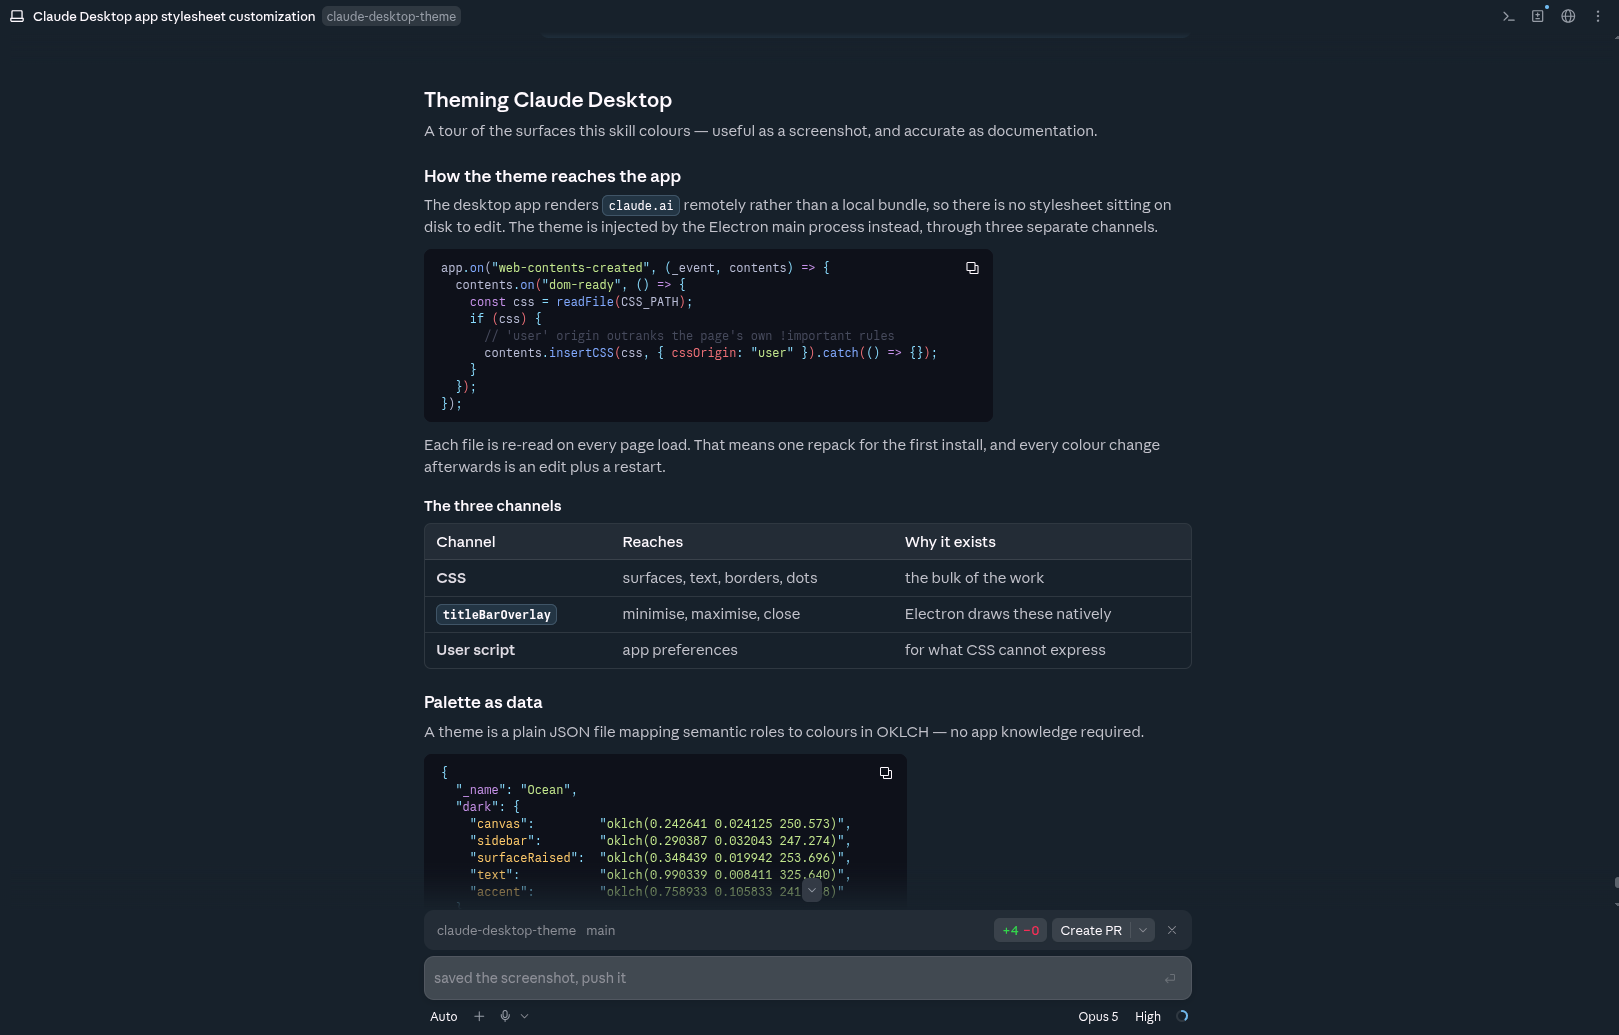
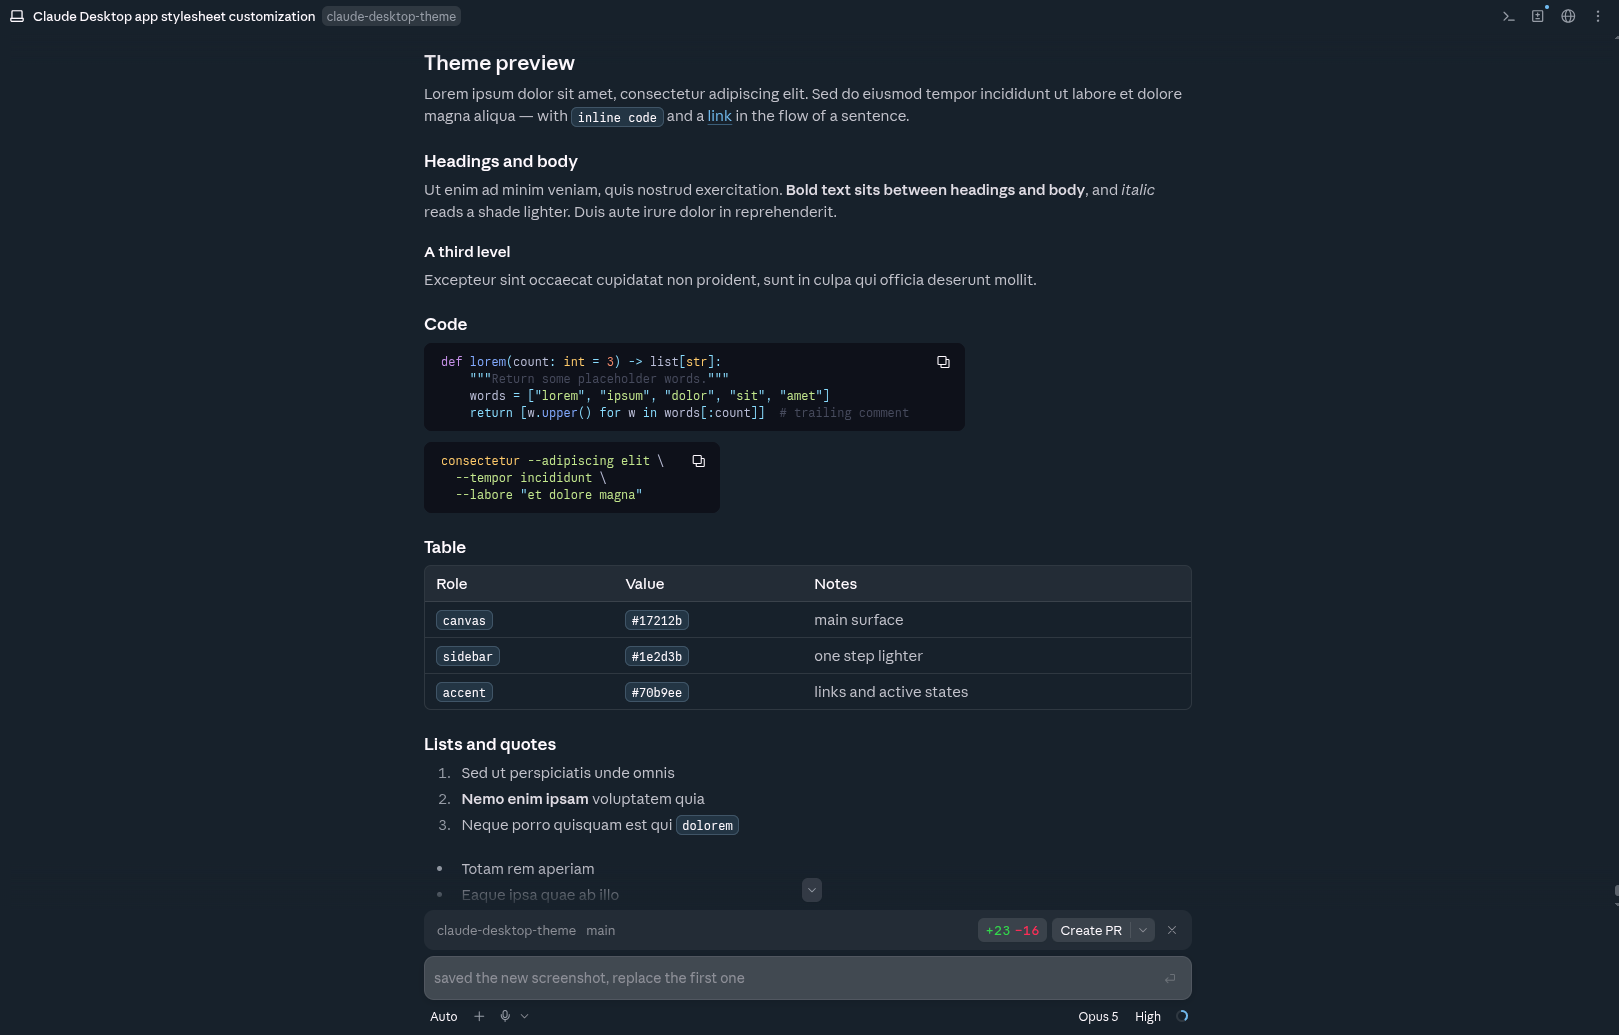
Use a neutral theme preview, soften the system-changes section

diff --git a/README.md b/README.md
@@ -107,22 +107,29 @@ Verified against Claude Desktop `1.40609.0`. It depends on undocumented internal
 of a frequently-updated closed application, so expect occasional re-derivation;
 the skill documents how.
 
-## This is intrusive
+## What it changes on your system
 
-Two operations deserve your attention:
+Everything is backed up and reversible, and nothing happens without you
+confirming it first. In detail:
 
-1. **Patching the app** replaces `app.asar`, the application's own code archive.
-   It edits executable JavaScript, not a stylesheet — a bad patch means the app
-   will not launch. It is backed up to `app.asar.orig`, `./revert.sh` restores
-   it, and nothing installs without an explicit confirmation.
-2. **Capturing a palette from another app** means reverse-engineering software
-   you did not ask to touch, and can cost hundreds of megabytes of temporary
-   extraction. The skill names the app and asks first, then cleans up.
+**The app archive.** Theming means replacing `app.asar`, which holds the
+application's code. The original is copied to `app.asar.orig` before anything is
+written, and `./revert.sh` puts it back. The build verifies the archive before it
+is installed — every entry present, only the injected file changed, all hashes
+matching — and refuses to hand over anything it cannot prove sound.
 
-Also worth knowing: the user script is arbitrary JavaScript running inside an
-authenticated Claude session. That is what makes non-CSS surfaces reachable, and
-it is a real security surface. Read `claude-theme.js` before installing, as you
-would any userscript.
+**Root access**, once, for that copy. The injected files themselves live in the
+skill directory and are read at runtime, so later colour changes need nothing
+privileged.
+
+**Reading another app**, only if you ask for it. Capturing a palette from
+something already installed means unpacking it, which can use a few hundred
+megabytes temporarily. The skill names the app first and cleans up after.
+
+One thing worth understanding rather than glossing: the user script is
+JavaScript that runs inside your authenticated Claude session. That is what makes
+non-CSS surfaces reachable at all. It ships inert — read `claude-theme.js` before
+installing, as you would any userscript.
 
 ## Contributing
 
